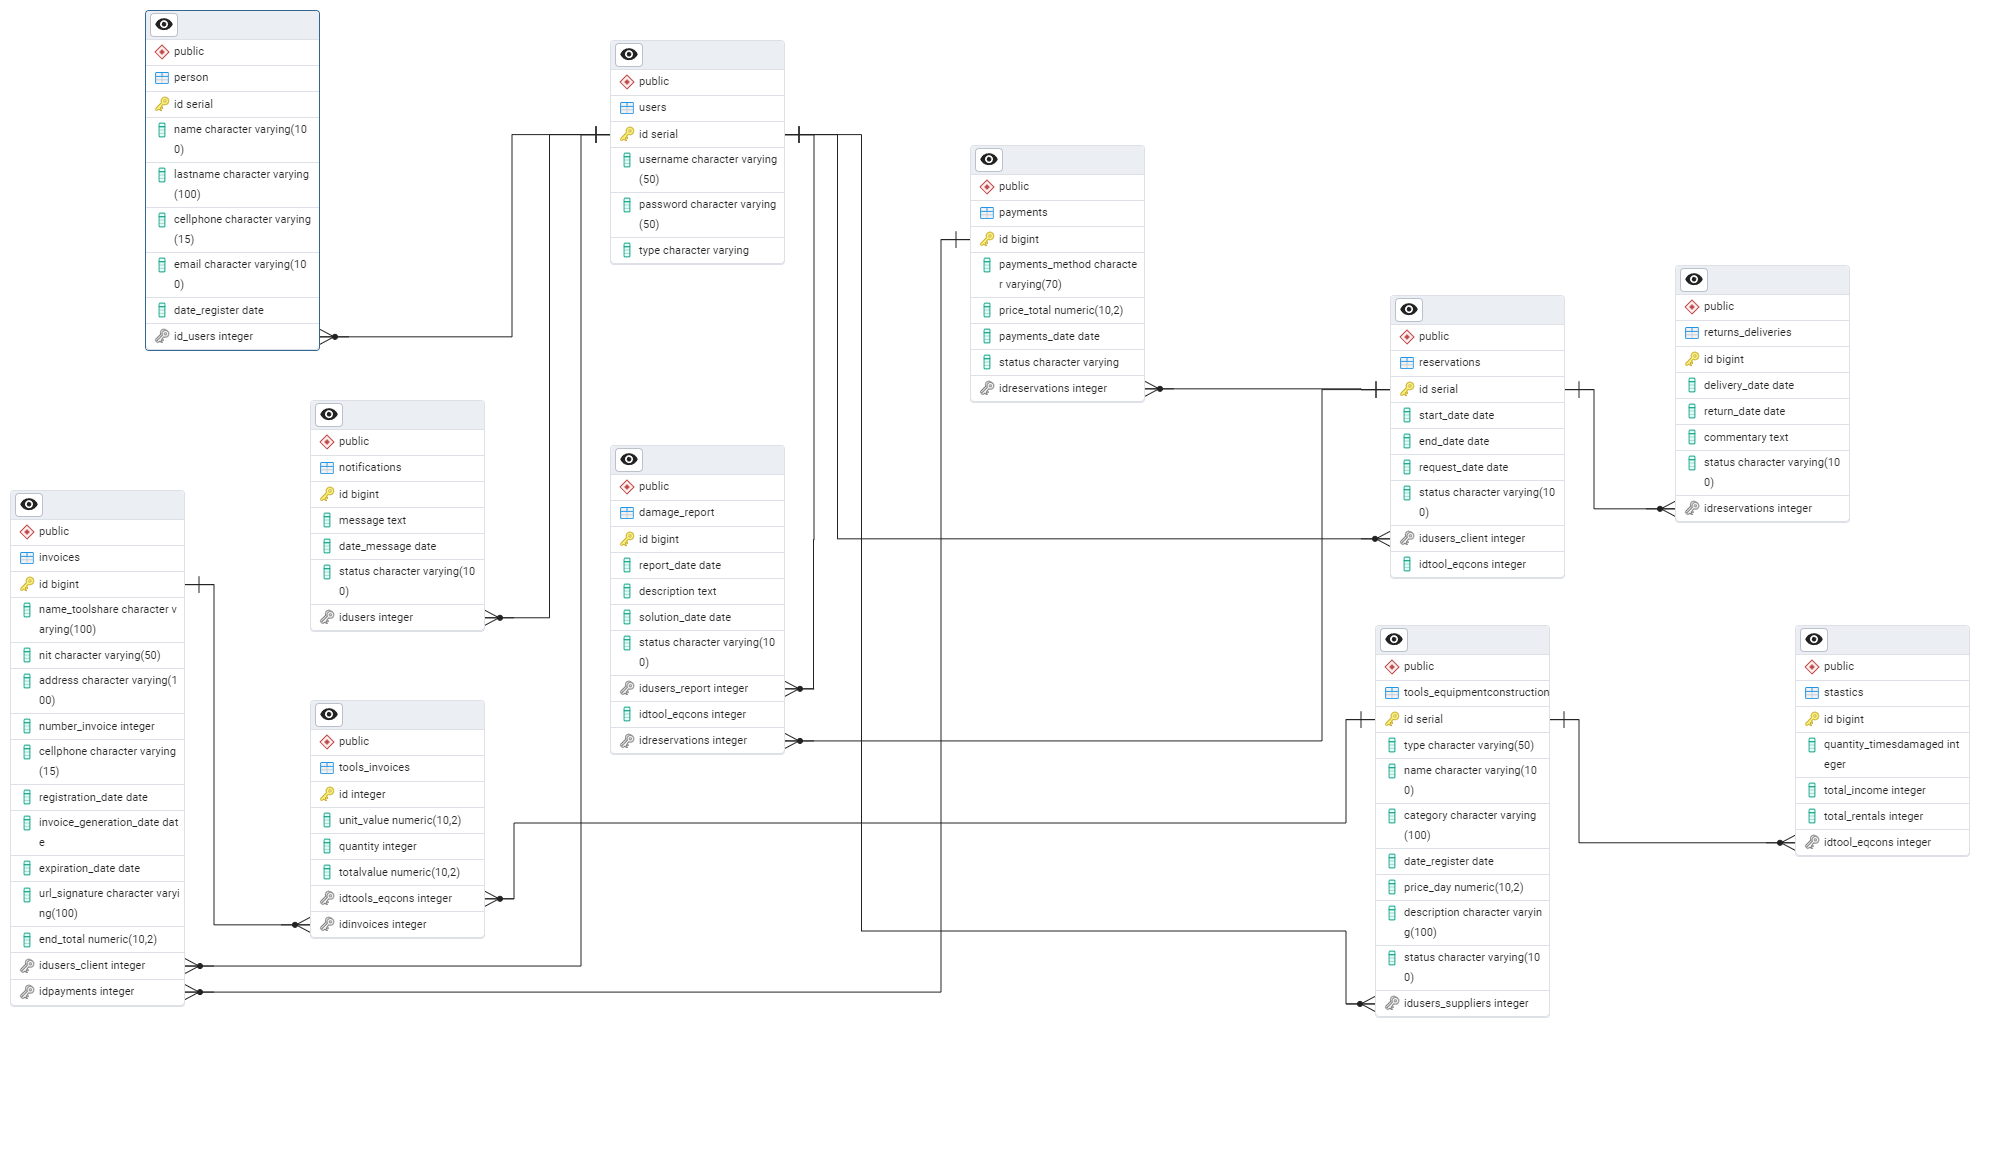
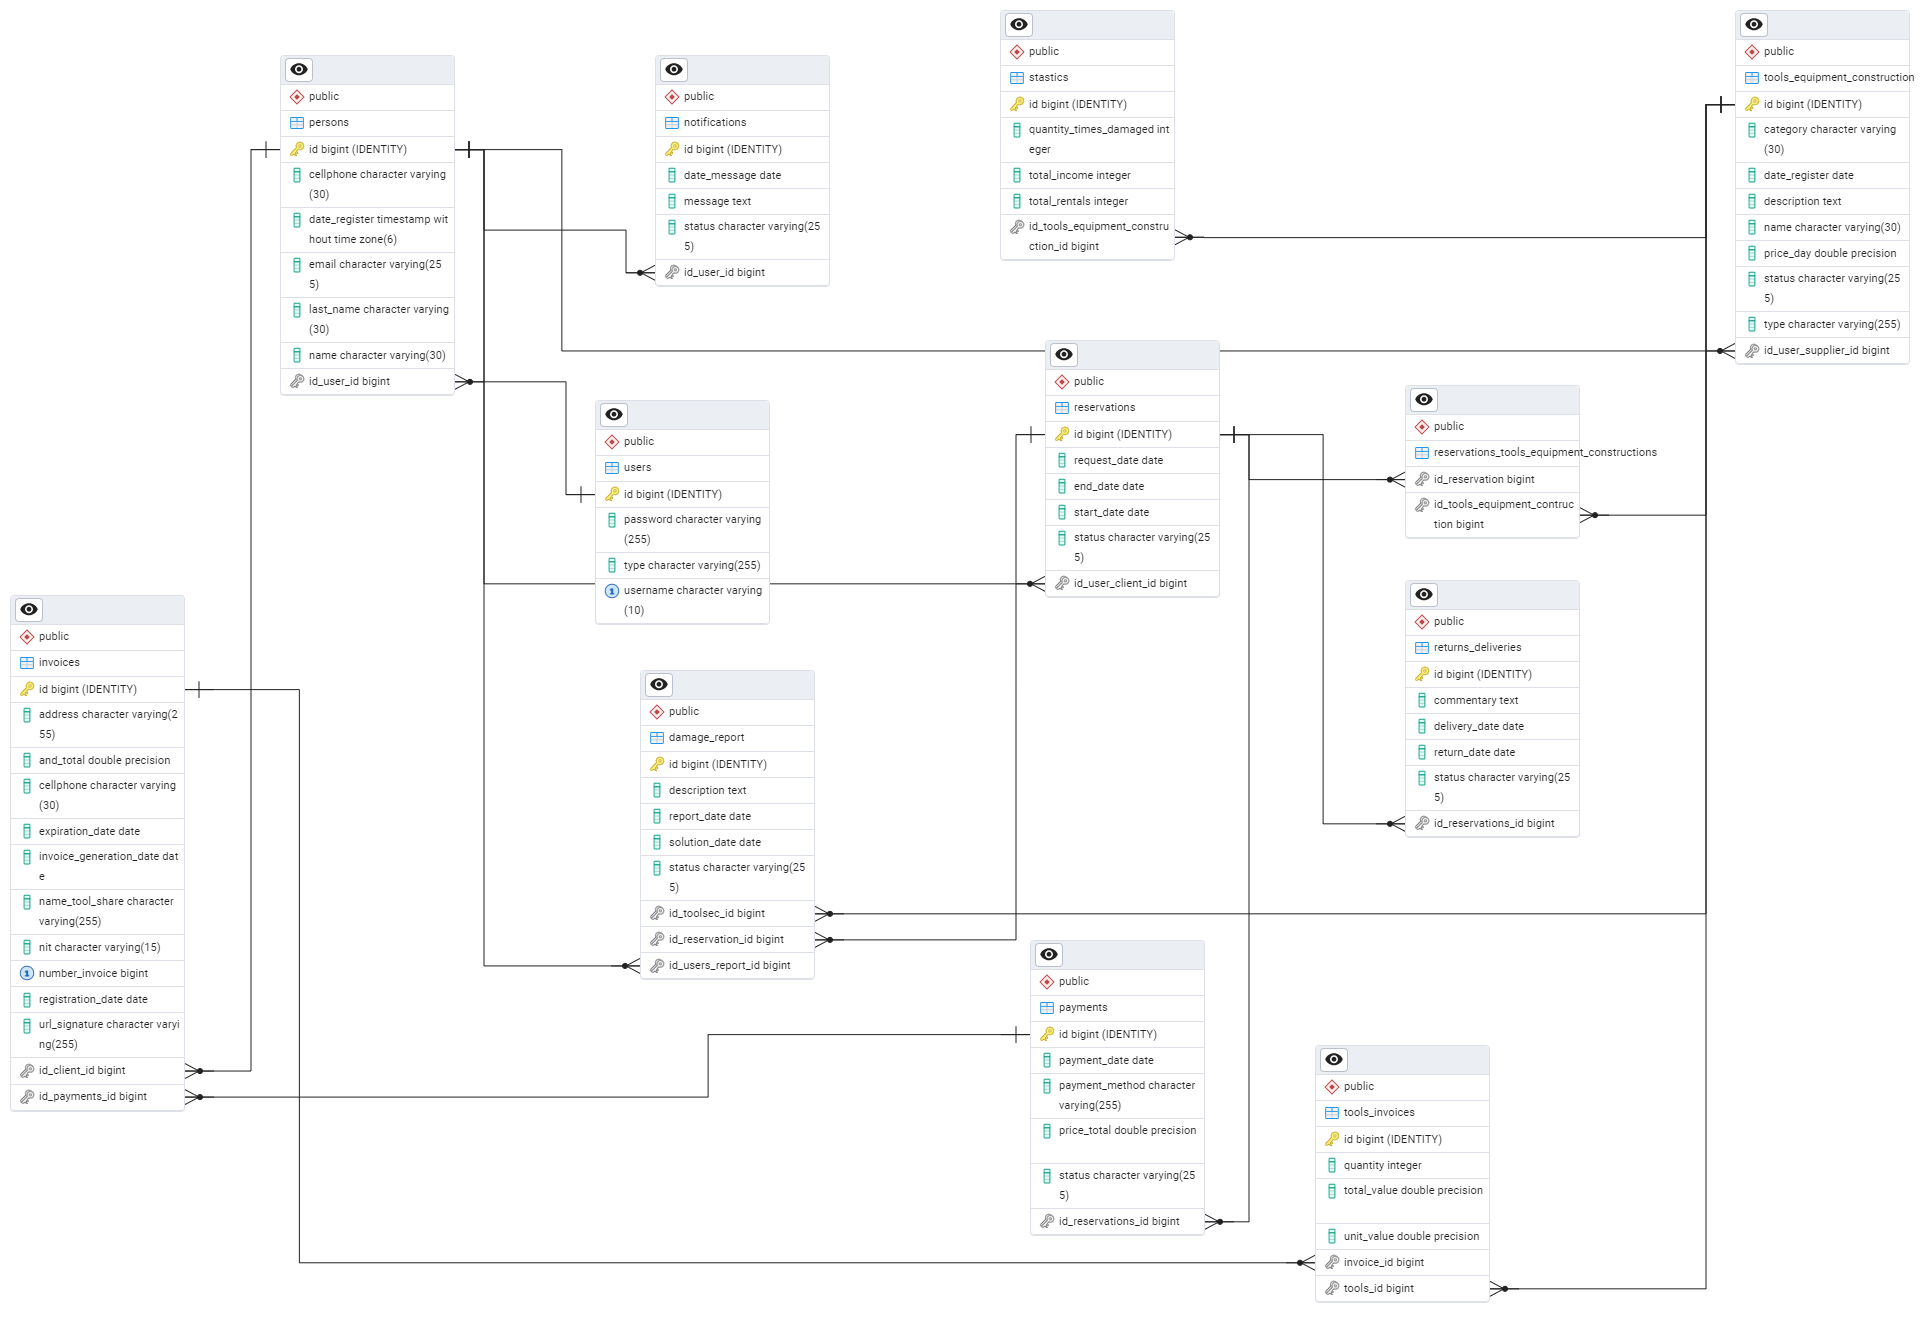
feat :sparkles: Readme.md

diff --git a/README.md b/README.md
@@ -8,9 +8,12 @@ Realización del proyecto final con Campuslands; desarrollado con Spring Boot pa
 - [Tecnologías utilizadas](#tecnologías-utilizadas)
     - [Backend](#backend)
     - [Frontend](#frontend)
-- [Características](#características)
 - [Estructura del proyecto](#estructura-del-proyecto)
-- [Instrucciones](#instrucciones)
+- [Entidades](#entidades)
+- [Diagrama de base de datos relacional](#diagrama-de-base-de-datos-relacional)
+- [Diagrama UML](#diagrama-uml)
+- [Características](#características)
+- [Instrucciones de Ejecución del proyecto](#instrucciones-de-ejecución-del-proyecto)
 - [Desarrollado por](#desarrolado-por)
 
 ## 📌Descripción
@@ -23,7 +26,7 @@ El presente proyecto se realizó debido a que el proceso de alquiler de herramie
 
 <img src="https://img.shields.io/badge/Spring_Security-6DB33F?style=for-the-badge&logo=Spring-Security&logoColor=white">
 
-<img src="    https://img.shields.io/badge/PostgreSQL-316192?style=for-the-badge&logo=postgresql&logoColor=white">
+<img src="https://img.shields.io/badge/PostgreSQL-316192?style=for-the-badge&logo=postgresql&logoColor=white">
 
 <img src="https://img.shields.io/badge/Postman-FF6C37?style=for-the-badge&logo=Postman&logoColor=white">
 
@@ -35,7 +38,6 @@ El presente proyecto se realizó debido a que el proceso de alquiler de herramie
 
 <img src="https://img.shields.io/badge/Java-323330?style=for-the-badge&logo=java&logoColor=F7DF1E">
 
-
 ### 🎨 Frontend
 
 <img src="https://img.shields.io/badge/JavaScript-323330?style=for-the-badge&logo=javascript&logoColor=F7DF1E">
@@ -44,16 +46,55 @@ El presente proyecto se realizó debido a que el proceso de alquiler de herramie
 
 <img src="https://img.shields.io/badge/CSS3-1572B6?style=for-the-badge&logo=css3&logoColor=white">
 
-
-
-## Características
-El archivo [.mysql]: es el que contiene el código por el cual podemos ver y manejar toda la BBDD.
-El archivo [.java]: es el que permite hacer una funcionalidad más amena, crear el diseño de la página y menejar todo el código en general.
-
 ## Estructura del Proyecto
 
+## Entidades
 
-## ⚙ Instrucciones
+1. Damage Report
+2. Invoices
+3. Notifications
+4. Payments
+5. Persons
+6. Reservations
+7. ReturnsDeliveries
+8. Stastics
+9. ToolsEquipmentConstruction
+10. ToolsInvoices
+11. Users
+
+## Diagrama de base de datos relacional
+
+![alt text](<Relational Database Schema Diagram.png>)
+
+## Diagrama UML
+
+![alt text](UML.png)
+
+## Características
+
+El proyecto ha sido organizado utilizando la arquitectura Modelo-Vista-Controlador (MVC), lo que permite una separación clara de responsabilidades entre el backend y el frontend, distribuidos en carpetas y archivos específicos:
+
+La carpeta [Application]: Esta carpeta contiene la estructura principal de la lógica de negocio de la aplicación.
+- La carpeta[Service]: Esta carpeta incluye en los archivos todas las interfaces Service correspondientes a las distintas entidades del sistema, estas definen los métodos que encapsulan la lógica de la plataforma de renta y que serán implementados posteriormente en las clases ServiceImpl.
+
+La carpeta [Config]: Esta carpeta contiene dos archivos [.java] que gestionan la configuración de seguridad del sistema. En ellos se define el control de acceso según los distintos roles (Admin, Supplier y Customer) y se implementa la generación y validación de tokens para autenticar y autorizar el acceso a los recursos protegidos.
+
+La carpeta [Domain]: Esta carpeta nos permite almacenar en los archivos todos los atributos de las entidades de la BBDD, en ella también tenemos 4 carpetas más:
+
+- La carpeta [Dto]: Esta carpeta nos permite encapsular y simplificar en archivos los datos de una entidad. Tambien nos ayuda a manejar de manera más ligera y rápida los atributos extrictamente necesarios para la función y ejecución del código.
+- La carpeta [Enum]: Esta carpeta nos permite organizar en archivos los enums utilizados en las entidades de nuestro proyecto en una sola parte. Esto nos ayuda en la mejora de la estructura del código, nos es útil para representar los estados, roles, categorías, etc, de una manera más clara y segura.
+- La carpeta [Request]: Esta carpeta nos permite organizar en los archivos todas las clases que definen la estructura de los datos entrantes, separándolos de las entidades del sistema y de otros tipos de DTOs.
+- La carpeta [Response]: Esta carpeta nos almacena los archivos que nos permitiran modelar la respuesta que enviamos de la API al frontend, separando las estructuras de las entidades del sistema y de las clases request.
+
+La carpeta [Infraestructure]: Nos guarda dos carpetas esenciales del código:
+
+- La carpeta [Controller]: Esta carpeta nos permite, mediante los archivos poder manejar las solicitudes (HTTP) entrantes desde los roles (Admin, Supplier y Customer).
+- La carpeta [Repository]: Esta carpeta es la encargada de guardar las interfaces responsables de la persistencia de datos(consultas, inserciones, actualizaciones y borrados), la que se comunica directamente con la base de datos. Dentro de esta carpeta se incluye también:
+    - La carpeta [RepositoryImpl]: Esta subcarpeta contiene los archivos con las implementaciones personalizadas de los repositorios. Las clases en esta carpeta implementan interfaces personalizadas y utilizan @Service para interactuar directamente con la base de datos.
+
+La carpeta [JWT]: Esta carpeta nos permite crear el filtro de autenticación de la seguridad.
+
+## ⚙ Instrucciones de Ejecución del proyecto
 
 ### 1. Clonar el repositorio
 
@@ -71,3 +112,9 @@ https://github.com/MariaGLi/FerreteriaLosM_LizarazoMaria_LassoValerie_CaicedoLui
 
 ## Desarrolado por:
 Proyecto realizado por María Guadalupe Lizarazo Leal, Valerie Michell Lasso y Luis Miguel Caicedo Bermón, estudiantes de Campus-Lands como filtro previo a la evaluación final de este módulo.
+
+## Contacto de los desarrolladores:
+
+* mlizarazoleal@gmail.com
+* valerie01liz01@gmail.com
+* luis@gmail.com
